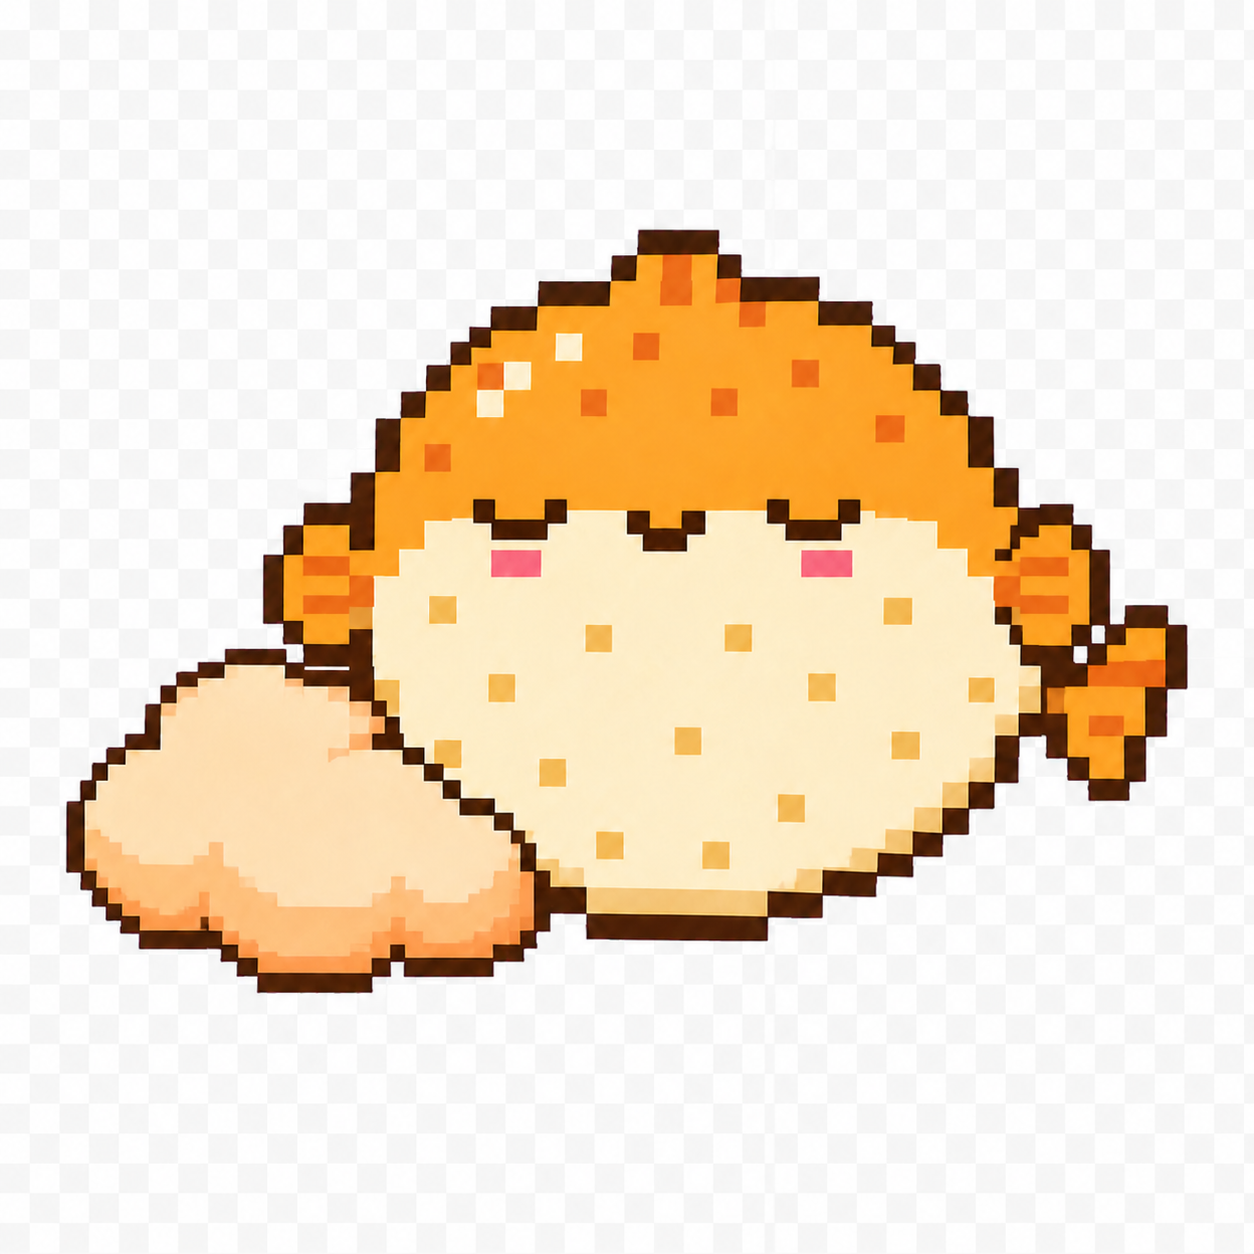
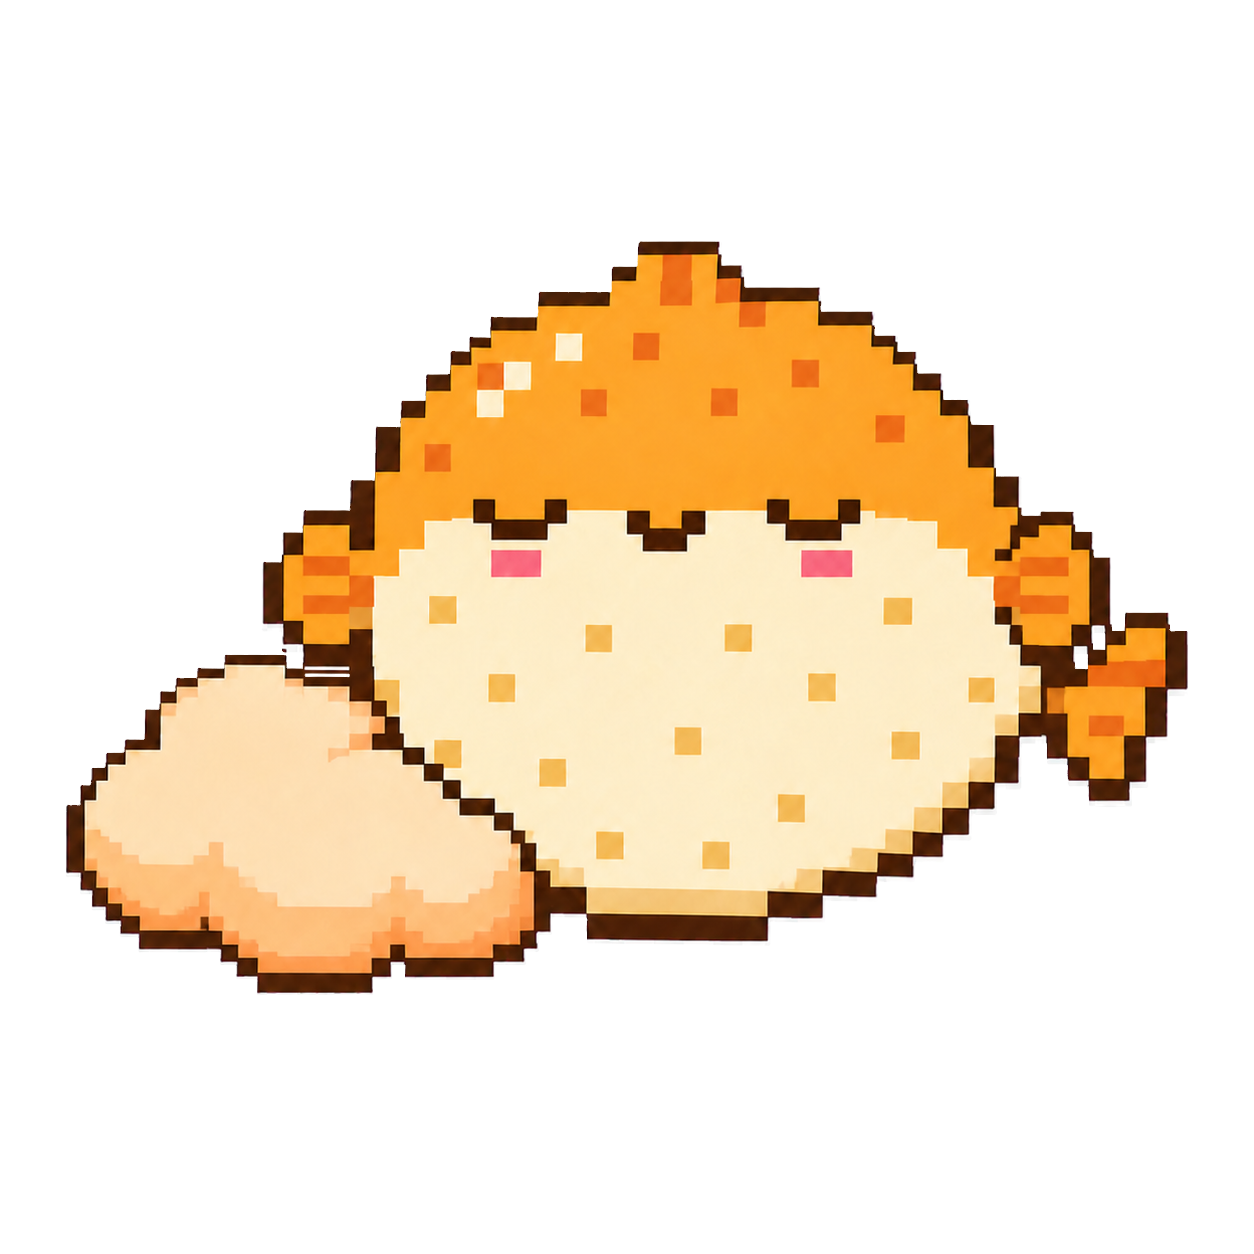
fix: preserve transparent blink frames

diff --git a/index.html b/index.html
@@ -15,7 +15,7 @@
   <meta name="apple-mobile-web-app-status-bar-style" content="default" />
   <script>
     (() => {
-      const pageVersion = '20260811-pet-blink-frames-1';
+      const pageVersion = '20260811-pet-blink-alpha-fix-1';
       const reloadKey = 'puffer-last-reload-version';
       fetch(`/version.json?check=${Date.now()}`, { cache: 'no-store' })
         .then((response) => response.ok ? response.json() : null)
@@ -32,15 +32,15 @@
   <link rel="preconnect" href="https://fonts.googleapis.com" />
   <link rel="preconnect" href="https://fonts.gstatic.com" crossorigin />
   <link href="https://fonts.googleapis.com/css2?family=Noto+Serif+SC:wght@500;600;700&family=Noto+Sans+SC:wght@400;500;700&family=Inter:wght@500;600;700;800&display=swap" rel="stylesheet" />
-  <link rel="stylesheet" href="styles.css?v=20260811-pet-blink-frames-1" />
+  <link rel="stylesheet" href="styles.css?v=20260811-pet-blink-alpha-fix-1" />
   <link rel="stylesheet" href="https://unpkg.com/@phosphor-icons/web@2.1.1/src/regular/style.css" />
-  <link rel="stylesheet" href="life.css?v=20260811-pet-blink-frames-1" />
-  <link rel="stylesheet" href="life-ritual.css?v=20260811-pet-blink-frames-1" />
-  <link rel="stylesheet" href="life-dashboard.css?v=20260811-pet-blink-frames-1" />
-  <link rel="stylesheet" href="life-dashboard-music.css?v=20260811-pet-blink-frames-1" />
-  <link rel="stylesheet" href="life-home-compact.css?v=20260811-pet-blink-frames-1" />
-  <link rel="stylesheet" href="life-unified-preview.css?v=20260811-pet-blink-frames-1" />
-  <link rel="stylesheet" href="life-complete-state.css?v=20260811-pet-blink-frames-1" />
+  <link rel="stylesheet" href="life.css?v=20260811-pet-blink-alpha-fix-1" />
+  <link rel="stylesheet" href="life-ritual.css?v=20260811-pet-blink-alpha-fix-1" />
+  <link rel="stylesheet" href="life-dashboard.css?v=20260811-pet-blink-alpha-fix-1" />
+  <link rel="stylesheet" href="life-dashboard-music.css?v=20260811-pet-blink-alpha-fix-1" />
+  <link rel="stylesheet" href="life-home-compact.css?v=20260811-pet-blink-alpha-fix-1" />
+  <link rel="stylesheet" href="life-unified-preview.css?v=20260811-pet-blink-alpha-fix-1" />
+  <link rel="stylesheet" href="life-complete-state.css?v=20260811-pet-blink-alpha-fix-1" />
   <style>
 /* ===== 仪表板排版优化 ===== */
 .dash-top { display:grid; grid-template-columns:1fr 1fr; gap:14px; margin:18px 0; }
@@ -619,8 +619,8 @@
 
   <!-- 引入依赖：QRCode 用于同步 -->
   <script src="https://cdn.jsdelivr.net/npm/qrcode@1.5.3/build/qrcode.min.js"></script>
-  <script src="app.js?v=20260811-pet-blink-frames-1"></script>
-  <script src="life.js?v=20260811-pet-blink-frames-1"></script>
-  <script src="life-complete-state.js?v=20260811-pet-blink-frames-1"></script>
+  <script src="app.js?v=20260811-pet-blink-alpha-fix-1"></script>
+  <script src="life.js?v=20260811-pet-blink-alpha-fix-1"></script>
+  <script src="life-complete-state.js?v=20260811-pet-blink-alpha-fix-1"></script>
 </body>
 </html>
